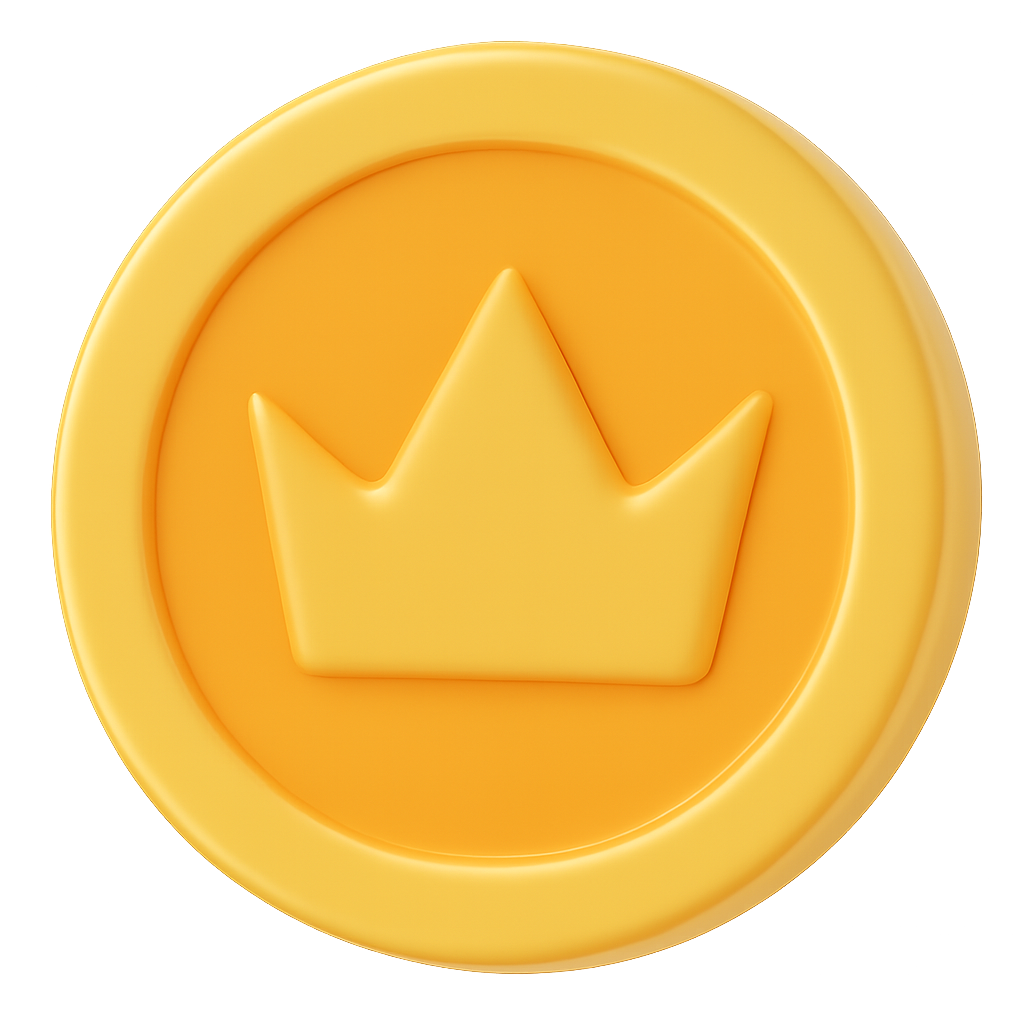
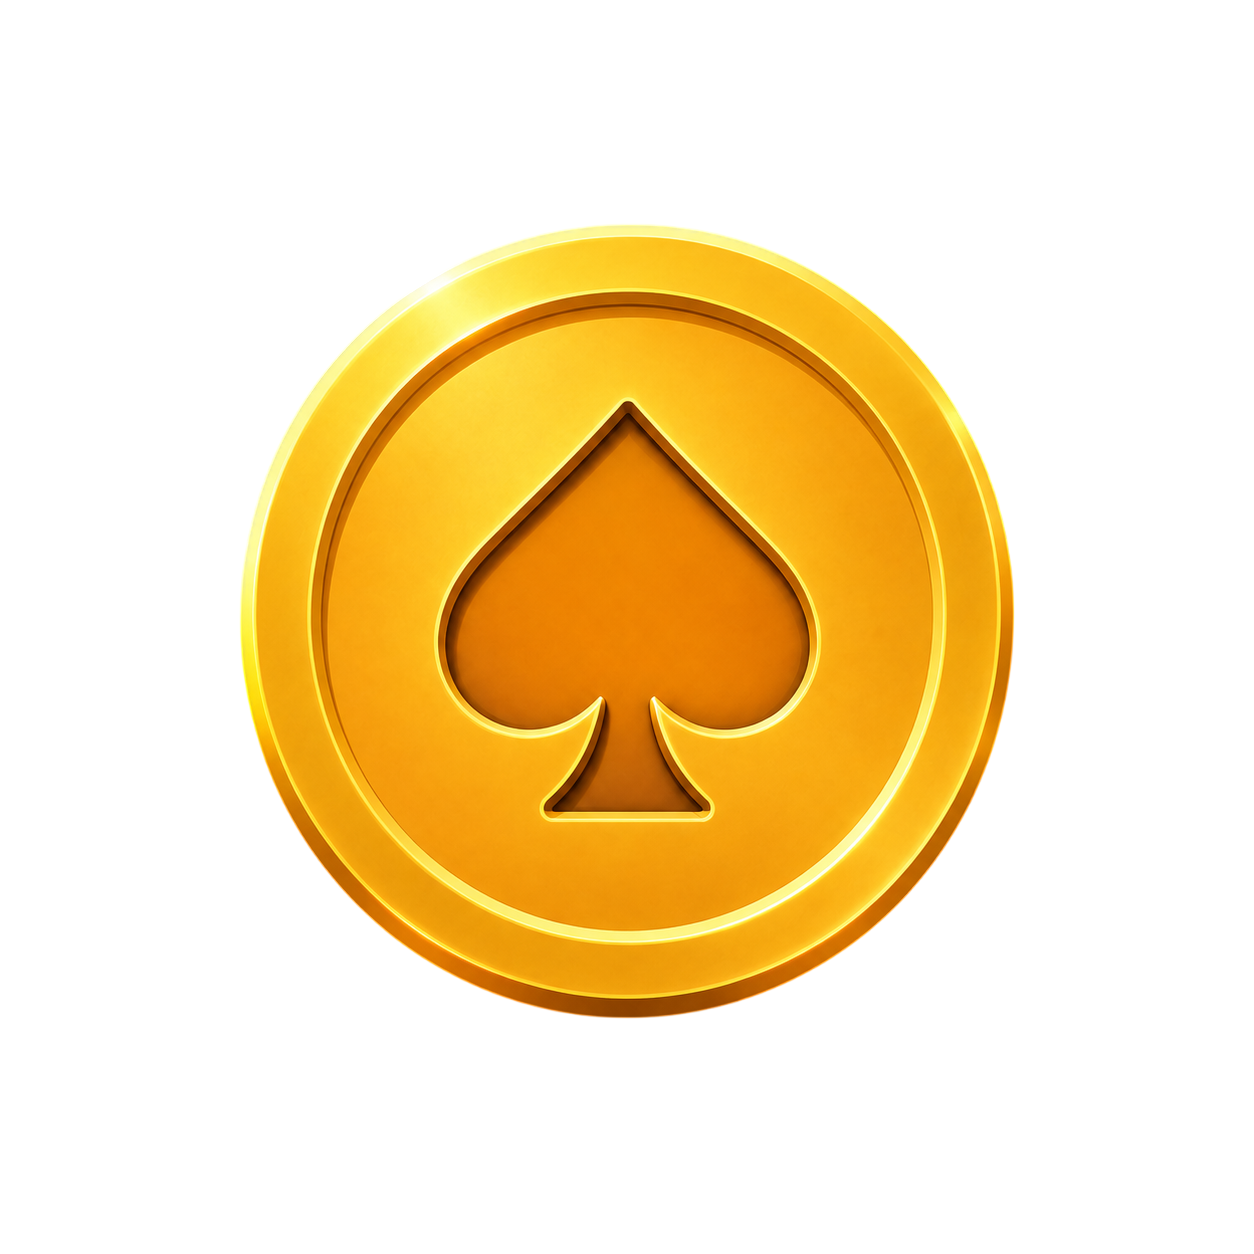
Swap the coin/gem artwork for the new glossy suit-themed designs, resize badges
Replaces the two source PNGs backing the Coin/Gem icon components (used
everywhere via those components) with the new custom-generated art —
propagates to every badge, chest, wheel, battle pass, and shop screen
without touching each call site individually.

Also bumps the top balance badges from 24px to 32px icons (were reading
as "rikiki" next to the new artwork's detail), and simplifies the shop's
coin/gem pack tiles: they used to show a different photoreal image per
pack size with a small fallback icon for the rest, producing an
inconsistent mix of sizes — now every tile renders the same master
image at a consistent larger size.

diff --git a/client/src/pages/shop.tsx b/client/src/pages/shop.tsx
@@ -17,14 +17,10 @@ import { apiRequest } from "@/lib/queryClient";
 import { API_BASE_URL } from "../lib/apiBase";
 import { CHEST_TIERS, CHEST_BOLT_COST, type ChestTier } from "@shared/chestCatalog";
 
-import newGemImage from "@assets/nfjezenf_1758044629929.png";
-import newGemsImage from "@assets/ibibiz_1757453181053.png";
-import newGemsImageFor1K from "@assets/ibibiz_1758046156490.png";
-import gemsCart from "@assets/nbfejzifbzi_1757453308064.png";
-import gemsWagon from "@assets/nbfejzifbzi_1758059160481.png";
-import goldCoins from "@assets/jgfcf_1757454892811.png";
-import coinStack from "@assets/mbibi_1757455067645.png";
-import treasureCart from "@assets/cfgvg_1757455194327.png";
+// Every coin/gem pack tier renders the same master artwork now (matches the Coin/Gem icon
+// components used everywhere else in the app), instead of a different photoreal pile per size.
+import newGemImage from "@assets/image_1757366539717.png";
+import goldCoins from "@assets/coins_1757366059535.png";
 import chestBronzeImage from "@assets/chest_bronze_1758975400000.png";
 import chestSilverImage from "@assets/chest_silver_1758975400001.png";
 import chestGoldImage from "@assets/chest_gold_1758975400002.png";
@@ -320,7 +316,7 @@ export default function Shop() {
           transition={{ delay: 0.2 }}
         >
           <div className="bg-white/5 px-3.5 py-2 rounded-2xl border border-white/10 backdrop-blur-sm flex items-center justify-center space-x-3">
-            <Gem className="w-6 h-6 text-accent-purple" />
+            <Gem className="w-8 h-8 text-accent-purple" />
             <AnimatedCounter
               value={user?.gems || 0}
               storageKey="previousShopGemsBalance"
@@ -336,7 +332,7 @@ export default function Shop() {
             storageKey="previousShopCoinsBalance"
           />
           <div className="bg-white/5 px-3.5 py-2 rounded-2xl border border-white/10 backdrop-blur-sm flex items-center justify-center space-x-3">
-            <Bolt size={24} />
+            <Bolt size={32} />
             <AnimatedCounter
               value={user?.bolts || 0}
               storageKey="shopBoltsBalance"
@@ -496,28 +492,8 @@ export default function Shop() {
                 data-testid={`button-buy-coins-${pack.id}`}
                 onClick={() => handleSelectPack(pack, 'coins')}
               >
-                <div className="bg-accent-gold/20 w-16 h-16 rounded-2xl flex items-center justify-center mx-auto mb-4">
-                  {pack.coins === 5000 ? (
-                    <img
-                      src={goldCoins}
-                      alt="Premium Gold Coins"
-                      className="w-14 h-14 object-contain"
-                    />
-                  ) : pack.coins === 20000 ? (
-                    <img
-                      src={coinStack}
-                      alt="20K Coin Stack"
-                      className="w-14 h-14 object-contain"
-                    />
-                  ) : pack.coins === 100000 ? (
-                    <img
-                      src={treasureCart}
-                      alt="100K Treasure Cart"
-                      className="w-14 h-14 object-contain"
-                    />
-                  ) : (
-                    <Coin size={48} className="text-white" />
-                  )}
+                <div className="bg-accent-gold/20 w-20 h-20 rounded-2xl flex items-center justify-center mx-auto mb-4">
+                  <img src={goldCoins} alt="Coins" className="w-16 h-16 object-contain" />
                 </div>
                 <div className="text-3xl font-black text-white mb-1">
                   {formatAmount(pack.coins)}
@@ -553,40 +529,8 @@ export default function Shop() {
                 data-testid={`button-buy-gems-${pack.id}`}
                 onClick={() => handleSelectPack(pack, 'gems')}
               >
-                <div className="bg-accent-purple/20 w-16 h-16 rounded-2xl flex items-center justify-center mx-auto mb-4">
-                  {pack.gems === 250 || pack.gems === 300 ? (
-                    <img
-                      src={newGemImage}
-                      alt="Premium Glowing Gems"
-                      className="w-14 h-14 object-contain"
-                    />
-                  ) : pack.gems === 500 ? (
-                    <img
-                      src={newGemsImage}
-                      alt="500 Gems Pack"
-                      className="w-14 h-14 object-contain"
-                    />
-                  ) : pack.gems === 1000 ? (
-                    <img
-                      src={newGemsImageFor1K}
-                      alt="1K Gems Pack"
-                      className="w-14 h-14 object-contain"
-                    />
-                  ) : pack.gems === 1200 ? (
-                    <img
-                      src={gemsCart}
-                      alt="1200 Gems Pack"
-                      className="w-14 h-14 object-contain"
-                    />
-                  ) : pack.gems === 3000 ? (
-                    <img
-                      src={gemsWagon}
-                      alt="3K Gems Wagon"
-                      className="w-14 h-14 object-contain"
-                    />
-                  ) : (
-                    <Gem className="w-10 h-10 text-accent-purple" />
-                  )}
+                <div className="bg-accent-purple/20 w-20 h-20 rounded-2xl flex items-center justify-center mx-auto mb-4">
+                  <img src={newGemImage} alt="Gems" className="w-16 h-16 object-contain" />
                 </div>
                 <div className="text-3xl font-black mb-1 text-[#ffffff]">
                   {pack.gems === 50 ? '50' :

diff --git a/client/src/components/AnimatedCoinsBadge.tsx b/client/src/components/AnimatedCoinsBadge.tsx
@@ -13,7 +13,7 @@ type Props = {
 const sizeMap = {
   sm: { icon: 16, padX: "px-2.5", padY: "py-1", text: "text-[12px]" },
   md: { icon: 20, padX: "px-3",   padY: "py-1.5", text: "text-[13px]" },
-  lg: { icon: 24, padX: "px-3.5", padY: "py-2", text: "text-[15px]" },
+  lg: { icon: 32, padX: "px-3.5", padY: "py-2", text: "text-[15px]" },
 };
 
 export default function AnimatedCoinsBadge({ amount, glow = false, className = "", size = "md", storageKey }: Props) {
